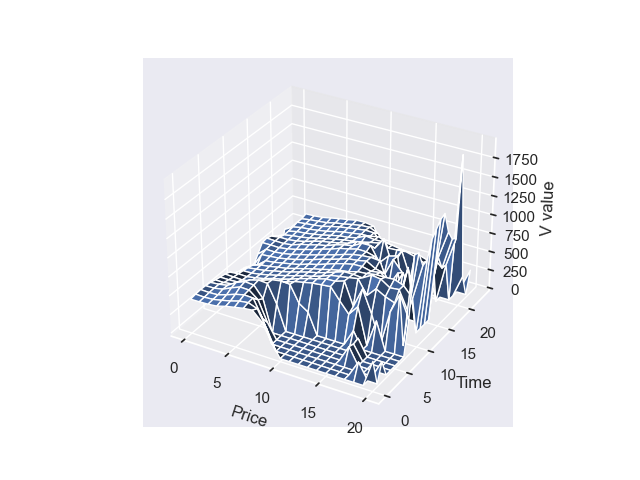
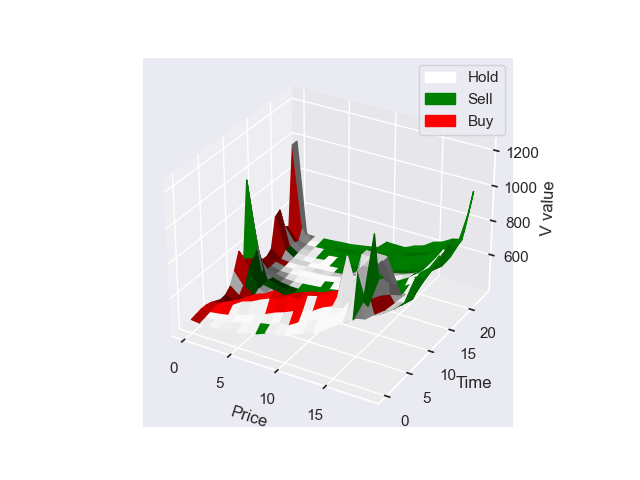
update plots

diff --git a/src/agent.py b/src/agent.py
@@ -4,6 +4,7 @@ from datetime import datetime
 
 import gymnasium as gym
 import matplotlib.pyplot as plt
+import matplotlib.patches as mpatches
 import numpy as np
 import pandas as pd
 from tqdm import tqdm
@@ -29,9 +30,9 @@ class QLearnAgent:
         self.discount_factor = discount_factor
 
         # create Q table
-        self.Qtable = np.zeros(
+        self.Qtable = np.ones(
             np.append(self.env.observation_space.nvec, self.env.action_space.n)
-        )
+        ) * 1000
 
     def update_Q_table(self, state, action, reward, next_state):
         q_next = self.Qtable[next_state].max()
@@ -212,25 +213,43 @@ class QLearnAgent:
         # z = V value
         # average out unnecessary dimensions
         z = np.mean(self.Qtable, axis=2)
+        # get argamx over action dimension
+        z_action = np.argmax(z, axis=2)
+        # get V value
         z = np.max(z, axis=2)
         # plot
         fig = plt.figure()
         ax = fig.add_subplot(111, projection="3d")
-        ax.plot_surface(x, y, z)
+        colors = {0: "white", 1: "green", 2: "red"}
+        z_action = np.vectorize(colors.get)(z_action)
+        ax.plot_surface(x, y, z, facecolors=z_action)
+        # set labels for colors
+        labels = ["Hold", "Sell", "Buy"]
+        handles = [
+            mpatches.Patch(color=colors[i], label=labels[i]) for i in range(len(labels))
+        ]
+        ax.legend(handles=handles)
         ax.set_xlabel("Price")
         ax.set_ylabel("Time")
         ax.set_zlabel("V value")
-        plt.set_cmap("viridis")
         plt.show()
+
         # plot V value ~ price + res_level
         x = np.arange(self.env.observation_space.nvec[1])
         y = np.arange(self.env.observation_space.nvec[2])
         x, y = np.meshgrid(x, y)
         z = np.mean(self.Qtable, axis=0)
+        z_action = np.argmax(z, axis=2).T
+        z_action = np.vectorize(colors.get)(z_action)
         z = np.max(z, axis=2).T
         fig = plt.figure()
         ax = fig.add_subplot(111, projection="3d")
-        ax.plot_surface(x, y, z)
+        ax.plot_surface(x, y, z, facecolors=z_action)
+        labels = ["Hold", "Sell", "Buy"]
+        handles = [
+            mpatches.Patch(color=colors[i], label=labels[i]) for i in range(len(labels))
+        ]
+        ax.legend(handles=handles)
         ax.set_xlabel("Price")
         ax.set_ylabel("Reservoir level")
         ax.set_zlabel("V value")

diff --git a/run.py b/run.py
@@ -24,9 +24,9 @@ if __name__ == "__main__":
 
     # train agent
     epsilon_decay = False
-    epsilon = 0.6  # overriden if epsilon_decay is True
+    epsilon = 0.8  # overriden if epsilon_decay is True
     alpha = 0.1
-    n_episodes = 300
+    n_episodes = 500
     random_startpoint = False
     start_amount = 0.5
 
